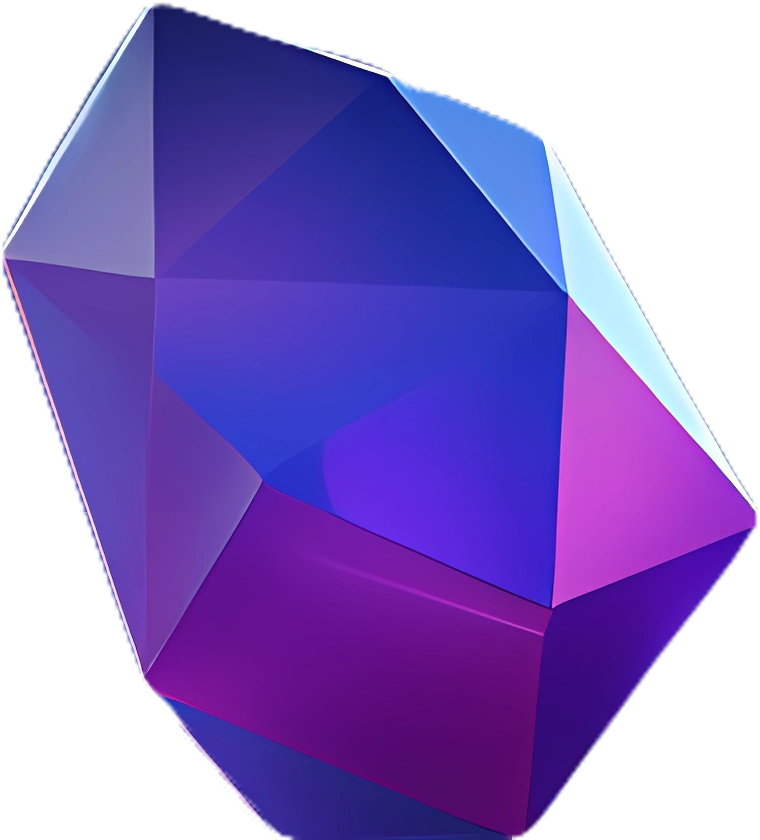
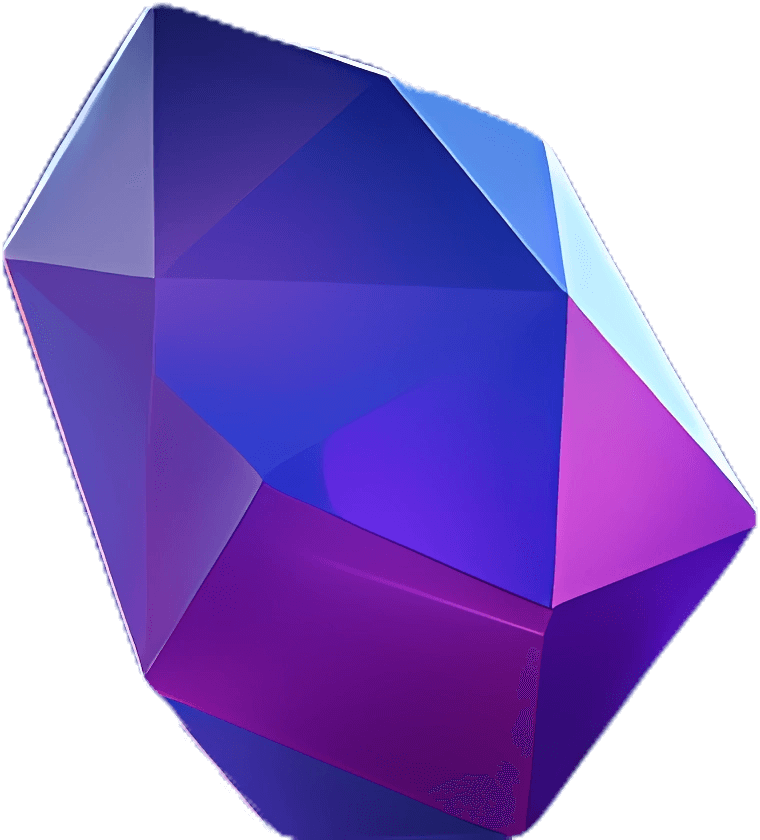
further optimizations

Changed region(s): [[0.575, 0.7738, 0.7263, 1.0]]

diff --git a/src/pages/index.js b/src/pages/index.js
@@ -28,8 +28,14 @@ import step1Illustration from "../../public/img/vectors/step-design.svg";
 import step2Illustration from "../../public/img/vectors/step-develop.svg";
 
 //for x section
-import companiesMockupPort from "../../public/img/bitmaps/companies-mockup-port.webp";
+import creativesBGMobile from "../../public/img/bitmaps/creatives-bg-mobile.webp";
+import creativesBGDesktop from "../../public/img/bitmaps/creatives-bg-desktop.webp";
+import creativesBGTablet from "../../public/img/bitmaps/creatives-bg-tablet.webp";
 import creativesMockupPort from "../../public/img/bitmaps/creatives-mockup-port.webp";
+import companiesBGMobile from "../../public/img/bitmaps/companies-bg-mobile.webp";
+import companiesBGDesktop from "../../public/img/bitmaps/companies-bg-desktop.webp";
+import companiesBGTablet from "../../public/img/bitmaps/companies-bg-tablet.webp";
+import companiesMockupPort from "../../public/img/bitmaps/companies-mockup-port.webp";
 
 //tools
 import adobeIcon from "../../public/img/tools-icons/adobe.svg";
@@ -56,6 +62,7 @@ import Spacer from "@/Components/Spacer";
 import ThreeColSection from "@/Components/ThreeColSection";
 import BasicTitleText from "../Components/BasicTitleText";
 import Modal from "@/Components/Modal";
+
 // import { getServerSideProps } from "next/dist/build/templates/pages";
 
 export default function Home(props) {
@@ -80,6 +87,10 @@ export default function Home(props) {
 
   const isTablet = useMediaQuery({
     query: `${GlobalVariables.device.tablet}`,
+  });
+
+  const isLaptop = useMediaQuery({
+    query: `${GlobalVariables.device.laptop}`,
   });
 
   // const gem1ref = useRef(null);
@@ -492,6 +503,7 @@ export default function Home(props) {
                 src={gem1}
                 alt="gem1"
                 ref={gem1parallax.ref}
+                sizes="(orientation:landscape) 7vw, 10vw"
               />
 
               <Image
@@ -499,12 +511,14 @@ export default function Home(props) {
                 src={gem1Outline}
                 alt="gem1 outline"
                 ref={gem1OutlineParallax.ref}
+                sizes="(orientation:landscape) 7vw, 10vw"
               />
               <Image
                 className={`${IntroSectionStyles.gem2}`}
                 src={gem2}
                 alt="gem2"
                 ref={gem2parallax.ref}
+                sizes="(orientation:landscape) 7vw, 10vw"
               />
 
               <Image
@@ -512,6 +526,7 @@ export default function Home(props) {
                 src={gem2Outline}
                 alt="gem2 outline"
                 ref={gem2OutlineParallax.ref}
+                sizes="(orientation:landscape) 7vw, 10vw"
               />
               <Image
                 className={`${IntroSectionStyles.gem3}`}
@@ -530,6 +545,7 @@ export default function Home(props) {
                 src={gem4}
                 alt="gem4"
                 ref={gem4parallax.ref}
+                sizes="(orientation:landscape) 10vw, 15vw"
               />
 
               <Image
@@ -537,6 +553,7 @@ export default function Home(props) {
                 src={gem4Outline}
                 alt="gem4 outline"
                 ref={gem4OutlineParallax.ref}
+                sizes="(orientation:landscape) 10vw, 15vw"
               />
             </div>
           </div>
@@ -595,60 +612,17 @@ export default function Home(props) {
             <div className=""></div>
 
             <>
-              <picture>
-                <source
-                  srcSet={`
-         
-                  https://ik.imagekit.io/kx65wqg4n/63880d4661c776c1905a042424f9624b.webp 2048w,
-                  https://ik.imagekit.io/kx65wqg4n/63880d4661c776c1905a042424f9624b.webp?tr=w-1870 1870w,
-                  https://ik.imagekit.io/kx65wqg4n/63880d4661c776c1905a042424f9624b.webp?tr=w-1660 1660w,
-                  https://ik.imagekit.io/kx65wqg4n/63880d4661c776c1905a042424f9624b.webp?tr=w-1430 1430w,
-                  https://ik.imagekit.io/kx65wqg4n/63880d4661c776c1905a042424f9624b.webp?tr=w-1150 1150w,
-                  https://ik.imagekit.io/kx65wqg4n/63880d4661c776c1905a042424f9624b.webp?tr=w-780 780w,
-        
-            
-                  `}
-                  media={`(orientation: portrait) and ${GlobalVariables.device.tablet}`}
-                  sizes="100vw"
-                />
-                <source
-                  srcSet={`
-         
-    
-                  https://ik.imagekit.io/kx65wqg4n/abd7d40d8bb988c63f073e65d92f80f4.webp?tr=w-1520 1520w,
-                  https://ik.imagekit.io/kx65wqg4n/abd7d40d8bb988c63f073e65d92f80f4.webp?tr=w-1320 1320w,
-                  https://ik.imagekit.io/kx65wqg4n/abd7d40d8bb988c63f073e65d92f80f4.webp?tr=w-1070 1070w,
-                  https://ik.imagekit.io/kx65wqg4n/abd7d40d8bb988c63f073e65d92f80f4.webp?tr=w-760 760w,
-                  https://ik.imagekit.io/kx65wqg4n/abd7d40d8bb988c63f073e65d92f80f4.webp?tr=w-300 300w,
-        
-            
-                  `}
-                  media="(orientation: portrait)"
-                  sizes="100vw"
-                />
-
-                <source
-                  srcSet={`
-         
-                  https://ik.imagekit.io/kx65wqg4n/34ecb2a672138099e9886f8724d26900.webp 2048w,
-                  https://ik.imagekit.io/kx65wqg4n/34ecb2a672138099e9886f8724d26900.webp?tr=w-1870 1870w,
-                  https://ik.imagekit.io/kx65wqg4n/34ecb2a672138099e9886f8724d26900.webp?tr=w-1680 1680w,
-                  https://ik.imagekit.io/kx65wqg4n/34ecb2a672138099e9886f8724d26900.webp?tr=w-1470 1470w,
-                  https://ik.imagekit.io/kx65wqg4n/34ecb2a672138099e9886f8724d26900.webp?tr=w-1210 1210w,
-                  https://ik.imagekit.io/kx65wqg4n/34ecb2a672138099e9886f8724d26900.webp?tr=w-880 880w,
-        
-            
-                  `}
-                  media="(orientation: landscape)"
-                  sizes="100vw"
-                />
-                <img
-                  className="container-bg mockup-section"
-                  src="https://ik.imagekit.io/kx65wqg4n/34ecb2a672138099e9886f8724d26900.webp"
-                  loading={"lazy"}
-                  alt="Dart"
-                />
-              </picture>
+              <Image
+                className="container-bg mockup-section"
+                src={
+                  (isPortrait & !isTablet && creativesBGMobile) ||
+                  (isPortrait & isTablet && creativesBGTablet) ||
+                  (isLaptop && creativesBGDesktop)
+                }
+                alt="Creatives BG"
+                quality={100}
+                sizes="100vw"
+              />
 
               <div className="inner-content-container tablet-inner-grid desktop-inner-grid">
                 <div className="text-container inner-grid mockup-section">
@@ -669,7 +643,7 @@ export default function Home(props) {
                     src={creativesMockupPort}
                     alt="Creatives Mockup"
                     quality={85}
-                    sizes="(orientation:landscape) 50vw, 95vw"
+                    sizes="(orientation:landscape) 35vw, 85vw"
                   />
                 </div>
               </div>
@@ -683,61 +657,17 @@ export default function Home(props) {
             <div className=""></div>
 
             <>
-              <picture>
-                <source
-                  srcSet={`
-           
-                    https://ik.imagekit.io/kx65wqg4n/31740360ea27c7c1598fcbf5c6a8df3f.webp 2048w,
-                    https://ik.imagekit.io/kx65wqg4n/31740360ea27c7c1598fcbf5c6a8df3f.webp?tr=w-1870 1870w,
-                    https://ik.imagekit.io/kx65wqg4n/31740360ea27c7c1598fcbf5c6a8df3f.webp?tr=w-1660 1660w,
-                    https://ik.imagekit.io/kx65wqg4n/31740360ea27c7c1598fcbf5c6a8df3f.webp?tr=w-1430 1430w,
-                    https://ik.imagekit.io/kx65wqg4n/31740360ea27c7c1598fcbf5c6a8df3f.webp?tr=w-1150 1150w,
-                    https://ik.imagekit.io/kx65wqg4n/31740360ea27c7c1598fcbf5c6a8df3f.webp?tr=w-780 780w,
-          
-              
-                    `}
-                  media={`(orientation: portrait) and ${GlobalVariables.device.tablet}`}
-                  sizes="100vw"
-                />
-                <source
-                  srcSet={`
-           
-      
-                    https://ik.imagekit.io/kx65wqg4n/b08a39efce3ce730f5979ea2e59e7437.webp?tr=w-1520 1520w,
-                    https://ik.imagekit.io/kx65wqg4n/b08a39efce3ce730f5979ea2e59e7437.webp?tr=w-1320 1320w,
-                    https://ik.imagekit.io/kx65wqg4n/b08a39efce3ce730f5979ea2e59e7437.webp?tr=w-1070 1070w,
-                    https://ik.imagekit.io/kx65wqg4n/b08a39efce3ce730f5979ea2e59e7437.webp?tr=w-760 760w,
-                    https://ik.imagekit.io/kx65wqg4n/b08a39efce3ce730f5979ea2e59e7437.webp?tr=w-300 300w,
-          
-              
-                    `}
-                  media="(orientation: portrait)"
-                  sizes="100vw"
-                />
-
-                <source
-                  srcSet={`
-           
-                    https://ik.imagekit.io/kx65wqg4n/e487b709dbda430f4925bfc634521ee4.webp 2048w,
-                    https://ik.imagekit.io/kx65wqg4n/e487b709dbda430f4925bfc634521ee4.webp?tr=w-1870 1870w,
-                    https://ik.imagekit.io/kx65wqg4n/e487b709dbda430f4925bfc634521ee4.webp?tr=w-1680 1680w,
-                    https://ik.imagekit.io/kx65wqg4n/e487b709dbda430f4925bfc634521ee4.webp?tr=w-1470 1470w,
-                    https://ik.imagekit.io/kx65wqg4n/e487b709dbda430f4925bfc634521ee4.webp?tr=w-1210 1210w,
-                    https://ik.imagekit.io/kx65wqg4n/e487b709dbda430f4925bfc634521ee4.webp?tr=w-880 880w,
-          
-              
-                    `}
-                  media="(orientation: landscape)"
-                  sizes="100vw"
-                />
-
-                <img
-                  className="container-bg mockup-section"
-                  src="https://ik.imagekit.io/kx65wqg4n/e487b709dbda430f4925bfc634521ee4.webp"
-                  alt="Dart"
-                  loading={"lazy"}
-                />
-              </picture>
+              <Image
+                className="container-bg mockup-section"
+                src={
+                  (isPortrait & !isTablet && companiesBGMobile) ||
+                  (isPortrait & isTablet && companiesBGTablet) ||
+                  (isLaptop && companiesBGDesktop)
+                }
+                alt="Creatives BG"
+                quality={100}
+                sizes="100vw"
+              />
 
               <div className="inner-content-container tablet-inner-grid desktop-inner-grid">
                 <div className="text-container inner-grid mockup-section">
@@ -758,7 +688,7 @@ export default function Home(props) {
                       src={companiesMockupPort}
                       alt="Companies Mockup"
                       quality={95}
-                      sizes="(orientation:landscape) 50vw, 95vw"
+                      sizes="(orientation:landscape) 35vw, 85vw"
                     />
                   </Parallax>
                 </div>

diff --git a/src/Components/MockupSection.js b/src/Components/MockupSection.js
@@ -141,12 +141,14 @@ const MockupSection = (props) => {
                 quality={100}
                 src={inboxIQMokcupPortrait}
                 alt="InboxIQ Mockup"
+                sizes="85vw"
               />
             ) : (
               <Image
                 quality={100}
                 src={inboxIQMockupLand}
                 alt="InboxIQ Mockup"
+                sizes="50vw"
               />
             )}
 
@@ -235,6 +237,7 @@ DWELLANT */}
                 quality={100}
                 src={dwellantMockupPort}
                 alt="InboxIQ Mockup"
+                sizes="85vw"
                 loading={mockupSectionViewpointReached ? "eager" : "lazy"}
               />
             ) : (
@@ -242,6 +245,7 @@ DWELLANT */}
                 quality={100}
                 src={dwellantMockupLand}
                 alt="Dwellant Mockup"
+                sizes="50vw"
                 loading={mockupSectionViewpointReached ? "eager" : "lazy"}
               />
             )}
@@ -314,6 +318,7 @@ DWELLANT */}
                 loading={mockupSectionViewpointReached ? "eager" : "lazy"}
                 quality={100}
                 src={dayaMockupPortrait}
+                sizes="85vw"
                 alt="Daya Mockup"
               />
             ) : (
@@ -321,6 +326,7 @@ DWELLANT */}
                 loading={mockupSectionViewpointReached ? "eager" : "lazy"}
                 quality={100}
                 src={dayaMockupLand}
+                sizes="50vw"
                 alt="Daya Mockup"
               />
             )}
@@ -387,6 +393,7 @@ ROAR
                 quality={100}
                 src={roarMockupPortrait}
                 alt="Roar Mockup"
+                sizes="85vw"
               />
             ) : (
               <Image
@@ -394,6 +401,7 @@ ROAR
                 quality={100}
                 src={roarMockLand}
                 alt="Roar Mockup"
+                sizes="50vw"
               />
             )}
 
@@ -462,6 +470,7 @@ AAQILL
                 src={aaqillMokckupPortrait}
                 alt="Aaqill Mockup"
                 loading={mockupSectionViewpointReached ? "eager" : "lazy"}
+                sizes="85vw"
               />
             ) : (
               <Image
@@ -469,6 +478,7 @@ AAQILL
                 quality={100}
                 src={aaqillMockupLand}
                 alt="Aaqill Mockup"
+                sizes="50vw"
               />
             )}
 
@@ -540,6 +550,7 @@ MYNOTT
                 quality={100}
                 src={mynottMockPort}
                 alt="Mynott Mockup"
+                sizes="85vw"
               />
             ) : (
               <Image
@@ -547,6 +558,7 @@ MYNOTT
                 quality={100}
                 src={mynottMockLand}
                 alt="Mynott Mockup"
+                sizes="50vw"
               />
             )}
 

diff --git a/src/pages/pricing.js b/src/pages/pricing.js
@@ -7,6 +7,7 @@ import { useMediaQuery } from "react-responsive"; // A must for detecting respon
 import { TypeAnimation } from "react-type-animation";
 import styled from "styled-components";
 import Modal from "@/Components/Modal";
+import dynamic from "next/dynamic";
 
 // IMAGES
 
@@ -18,7 +19,7 @@ import PricingTableMobile from "@/Components/PricingTableMobile";
 
 // images
 import Spacer from "@/Components/Spacer";
-
+const Spline = dynamic(() => import("@splinetool/react-spline"));
 const PricingStyled = styled.div`
   h1 {
     @media ${GlobalVariables.device.laptop} {
@@ -1356,14 +1357,14 @@ MODALS */}
               </p>
             </div>
           </BasicTitleText>
-          {/* {splineLoadingBreakpointTriggered & !isPortrait ? (
+          {splineLoadingBreakpointTriggered & !isPortrait ? (
             <Spline
               className="rhombus-spline-container"
               scene="https://prod.spline.design/PaxOVLsx3FI1VvtA/scene.splinecode"
             />
           ) : (
             ""
-          )} */}
+          )}
         </div>
         <Spacer space="4rem" desktopspace="4rem"></Spacer>
         {/* CONTACT US SECTION */}

diff --git a/src/Components/FaqSection.js b/src/Components/FaqSection.js
@@ -85,7 +85,12 @@ const FaqSection = (props) => {
     <FaqSectionStyled className={props.className} center={props.center}>
       <div className="inner-container tablet-inner-grid">
         <div className="image-container tablet-inner-grid">
-          <Image src={globe} alt="Globe" />
+          <Image
+            src={globe}
+            alt="Globe"
+            sizes="(orientation:landscape) 35vw, 85vw"
+            quality={100}
+          />
         </div>
         <div className="text-container">
           <h2 className="s2">From England to Sri Lanka we’re here for you!</h2>
